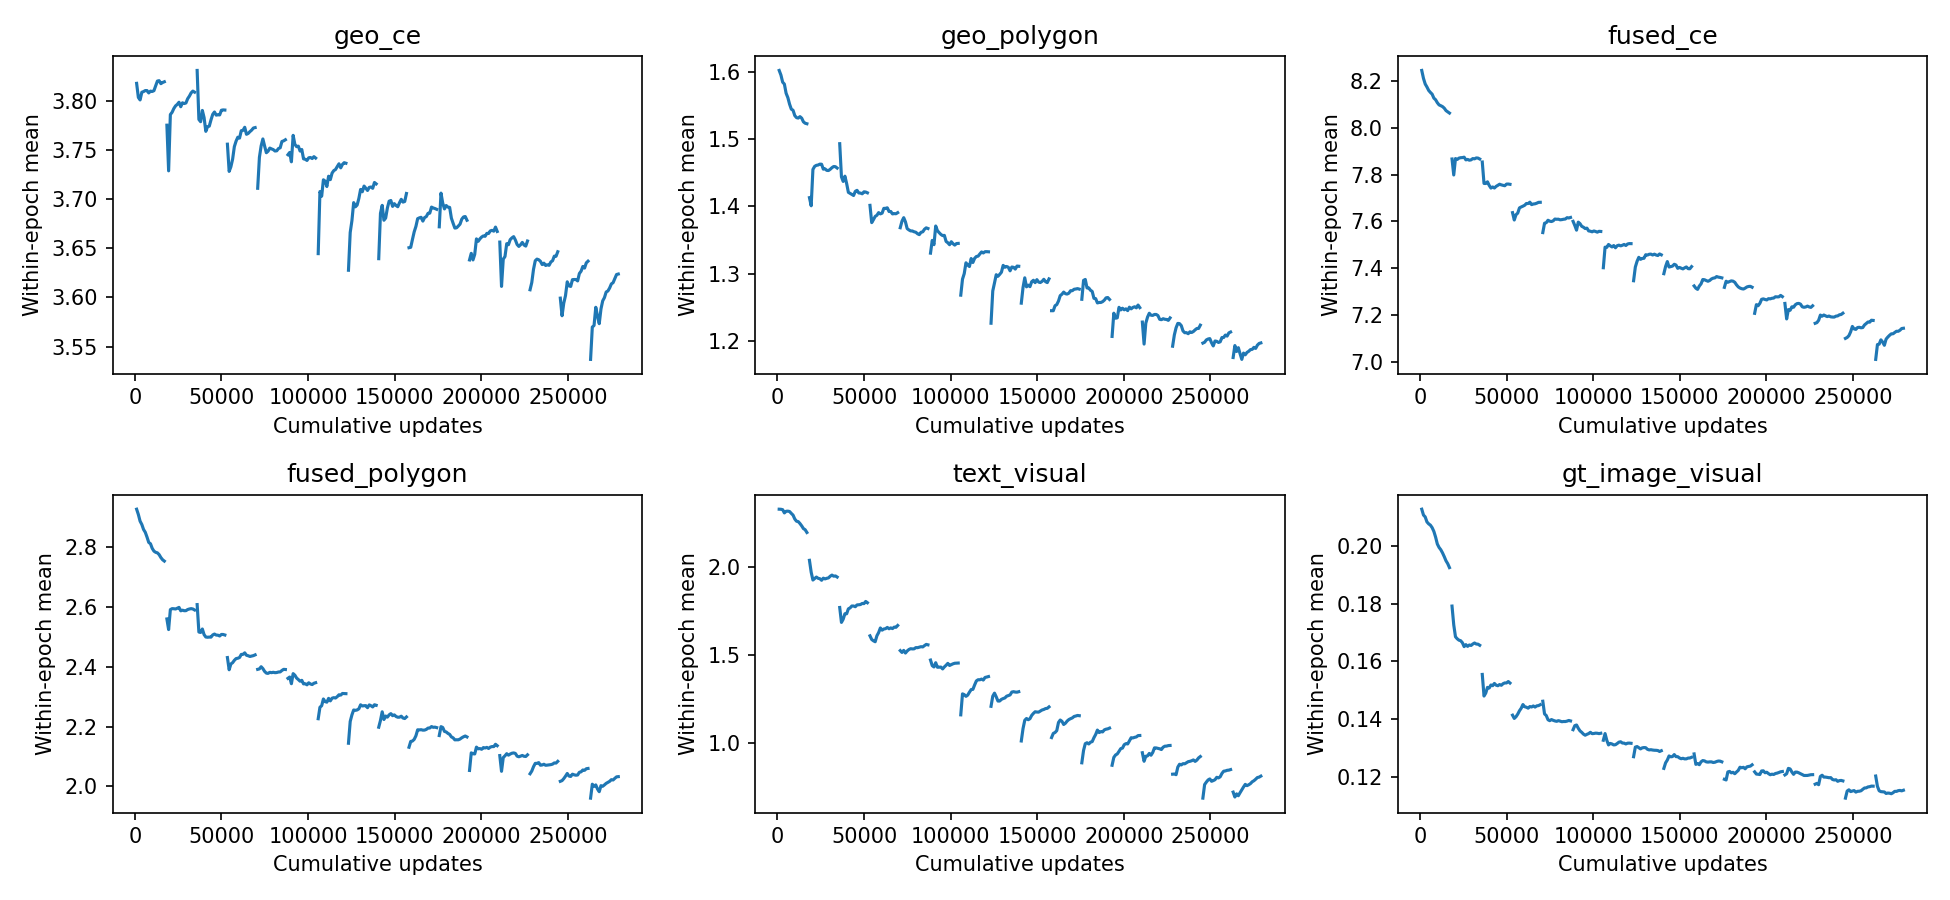
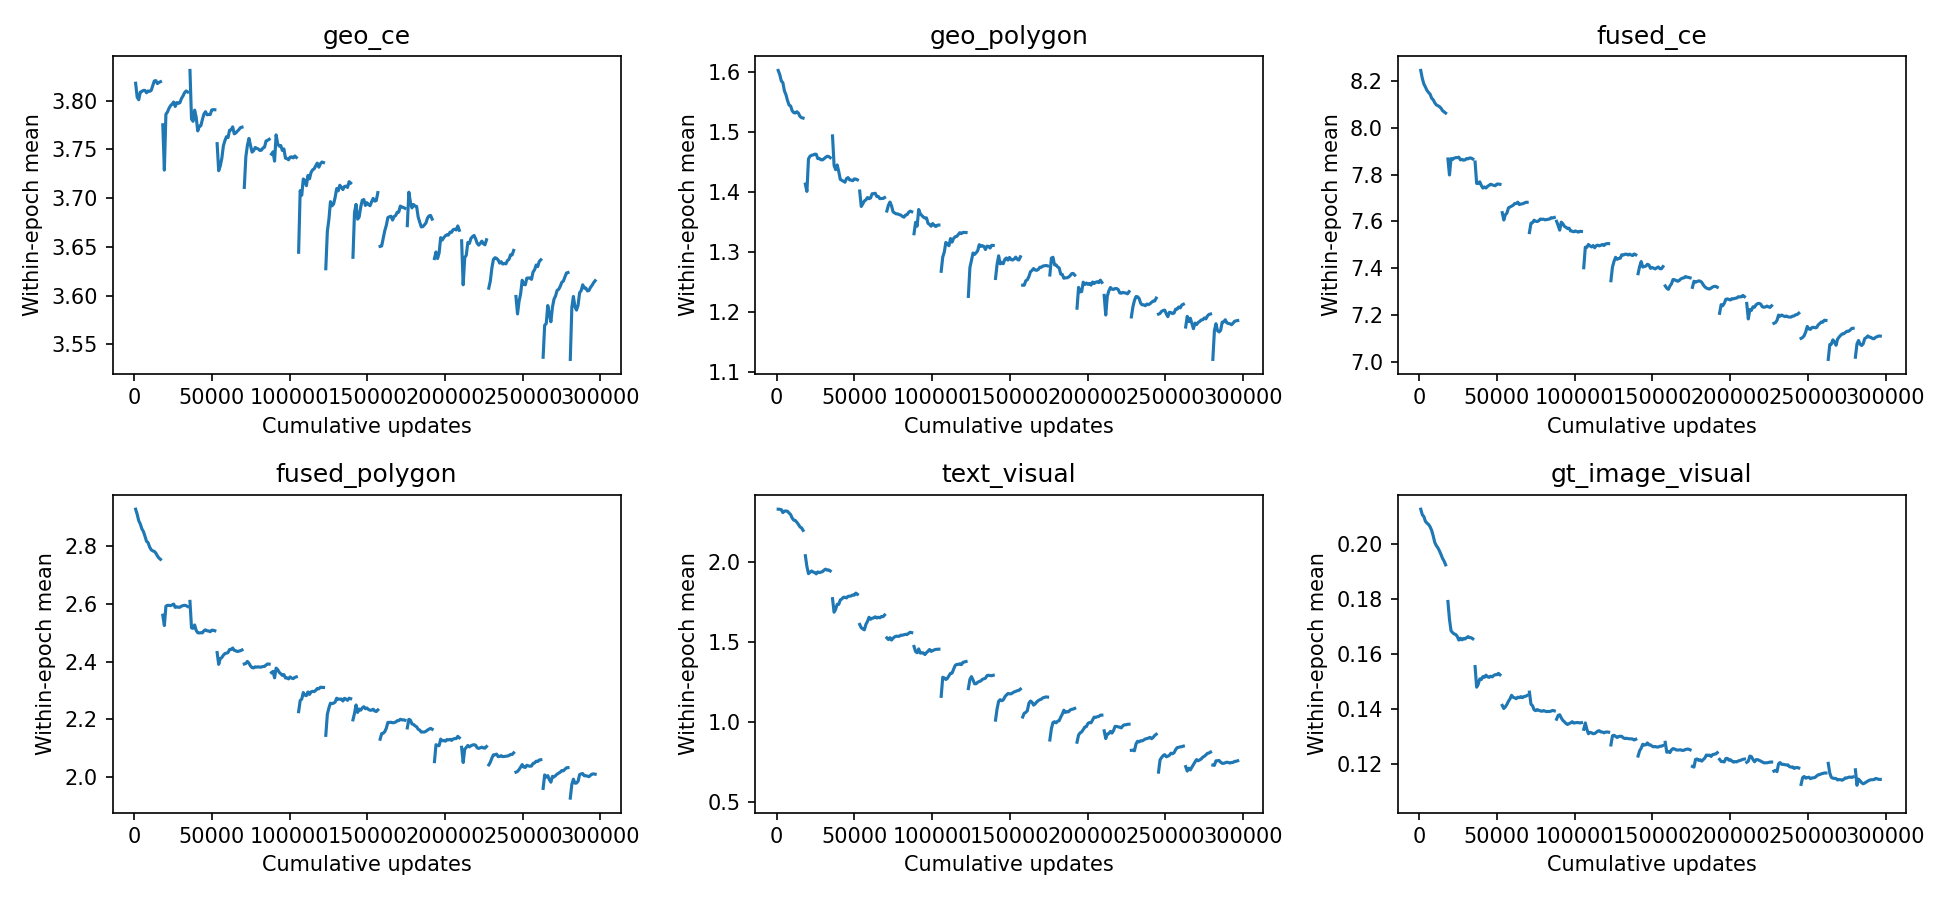
reports(v3): record seventeenth epoch and pending final evaluation

diff --git a/reports/unified_pgvb/v3_full_training/REPORT_zh.md b/reports/unified_pgvb/v3_full_training/REPORT_zh.md
@@ -2,7 +2,7 @@
 
 完整TRAIN输入21878条；本阶段拟合17473条、物理目标留出4405条，物理分组重叠0。初始化V2曾使用TRAIN，内部留出不是完全未见泛化。
 
-当前已完成完整Epoch：16；训练结束：False。
+当前已完成完整Epoch：17；训练结束：False。
 
 Geometry和轻量视觉模块训练，BERT/SigLIP2冻结并读取缓存；seed42，原权重保留。四小时累计训练预算，至少三轮后连续两轮相对Loss改善<0.5%提前停止。未修改Stop=0.3、1mm守卫或Horizon。
 
@@ -26,6 +26,7 @@ Geometry和轻量视觉模块训练，BERT/SigLIP2冻结并读取缓存；seed42
 |14|17473|11.827870|772.62|0.144|
 |15|17473|11.766001|778.04|0.144|
 |16|17473|11.705238|775.96|0.144|
+|17|17473|11.638285|766.03|0.144|
 
 ![训练Loss](training_loss.png)
 ![Loss分量](loss_components.png)
